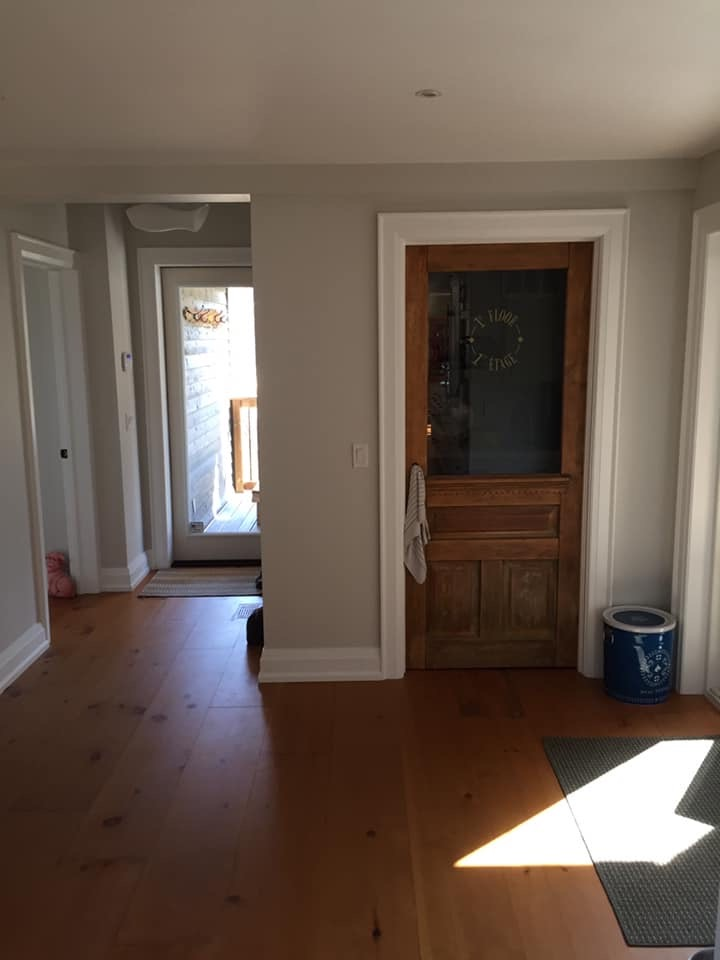
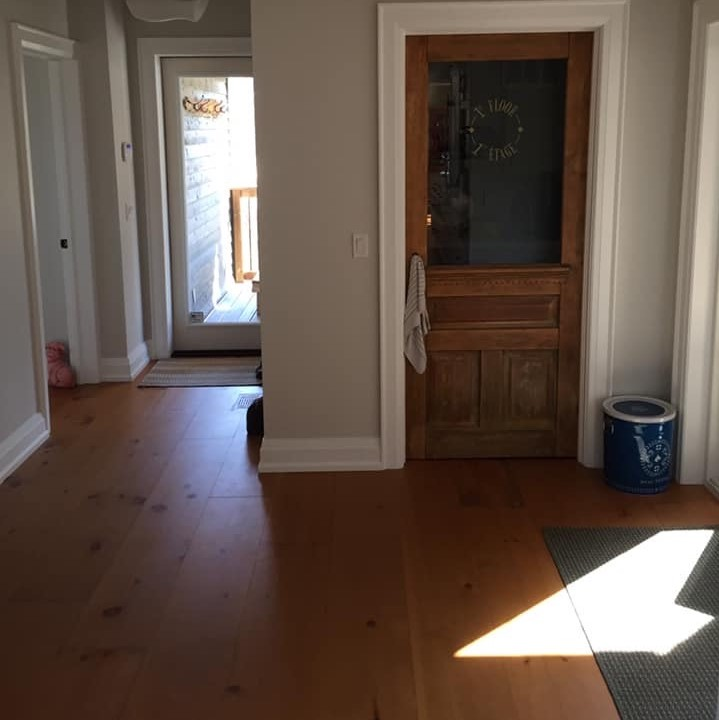
Resized and compressed all images

diff --git a/src/project-1.js b/src/project-1.js
@@ -123,68 +123,68 @@ export default class ProjectOne extends Component {
           <div class="project-gallery">
             <img
               class="project-gallery-image type1"
-              src="/projects/Project-1/IMG-0356.jpg"
+              src="/projects/Project-1/Project-1-1-MD.png"
               alt="not found"
             ></img>
 
             <img
               class="project-gallery-image type2"
-              src="/projects/Project-1/IMG-0357.jpg"
+              src="/projects/Project-1/Project-1-2-MD.png"
               alt="not found"
             ></img>
             <img
               class="project-gallery-image type1"
-              src="/projects/Project-1/IMG-0358.jpg"
+              src="/projects/Project-1/Project-1-3-MD.png"
               alt="not found"
             ></img>
             <img
               class="project-gallery-image type2"
-              src="/projects/Project-1/IMG-0359.jpg"
+              src="/projects/Project-1/Project-1-4-MD.png"
               alt="not found"
             ></img>
             <img
               class="project-gallery-image type1"
-              src="/projects/Project-1/IMG-0360.jpg"
+              src="/projects/Project-1/Project-1-5-MD.png"
               alt="not found"
             ></img>
             <img
               class="project-gallery-image type2"
-              src="/projects/Project-1/IMG-0361.jpg"
+              src="/projects/Project-1/Project-1-6-MD.png"
               alt="not found"
             ></img>
             <img
               class="project-gallery-image type1"
-              src="/projects/Project-1/IMG-0362.jpg"
+              src="/projects/Project-1/Project-1-7-MD.png"
               alt="not found"
             ></img>
             <img
               class="project-gallery-image type2"
-              src="/projects/Project-1/IMG-0363.jpg"
+              src="/projects/Project-1/Project-1-8-MD.png"
               alt="not found"
             ></img>
             <img
               class="project-gallery-image type1"
-              src="/projects/Project-1/IMG-0364.jpg"
+              src="/projects/Project-1/Project-1-9-MD.png"
               alt="not found"
             ></img>
             <img
               class="project-gallery-image type2"
-              src="/projects/Project-1/IMG-0365.jpg"
+              src="/projects/Project-1/Project-1-10-MD.png"
               alt="not found"
             ></img>
             <img
               class="project-gallery-image type2"
-              src="/projects/Project-1/IMG-0366.jpg"
+              src="/projects/Project-1/Project-1-11-MD.png"
               alt="not found"
             ></img>
             <img
               class="project-gallery-image type2"
-              src="/projects/Project-1/IMG-0367.jpg"
+              src="/projects/Project-1/Project-1-12-MD.png"
               alt="not found"
             ></img>
             <img
               class="project-gallery-image type2"
-              src="/projects/Project-1/IMG-0368.jpg"
+              src="/projects/Project-1/Project-1-13-MD.png"
               alt="not found"
             ></img>
           </div>

diff --git a/src/projects.js b/src/projects.js
@@ -11,7 +11,7 @@ class Projects extends Component {
       $("div.p1").on("mouseover", function() {
         $("div.p1").css(
           "background-image",
-          "url(/projects/Project-1/Project-1-Dark.png)"
+          "url(/projects/Project-1/Project-1-Dark-LG.png)"
         );
         window.$("h1.project-image-contents-1").css("opacity", "1");
         window.$("input.project-image-contents-1").css("opacity", "1");
@@ -19,7 +19,7 @@ class Projects extends Component {
       $("div.p1").on("mouseout", function() {
         $("div.p1").css(
           "background-image",
-          "url(/projects/Project-1/IMG-0361.jpg)"
+          "url(/projects/Project-1/Project-1-1-LG.png)"
         );
         $("h1.project-image-contents-1").css("opacity", "0");
         $("input.project-image-contents-1").css("opacity", "0");
@@ -27,7 +27,7 @@ class Projects extends Component {
       $("div.p2").on("mouseover", function() {
         $("div.p2").css(
           "background-image",
-          "url(/projects/Project-2/Project-2-Dark.png)"
+          "url(/projects/Project-2/Project-2-Dark-LG.png)"
         );
         $("h1.project-image-contents-2").css("opacity", "1");
         $("input.project-image-contents-2").css("opacity", "1");
@@ -35,7 +35,7 @@ class Projects extends Component {
       $("div.p2").on("mouseout", function() {
         $("div.p2").css(
           "background-image",
-          "url(/projects/Project-2/IMG-0257.jpg)"
+          "url(/projects/Project-2/Project-2-1-LG.png)"
         );
         $("h1.project-image-contents-2").css("opacity", "0");
         $("input.project-image-contents-2").css("opacity", "0");
@@ -43,7 +43,7 @@ class Projects extends Component {
       $("div.p3").on("mouseover", function() {
         $("div.p3").css(
           "background-image",
-          "url(/projects/Project-3-Dark.png)"
+          "url(/projects/Project-2/Project-3-Dark-LG.png)"
         );
         $("h1.project-image-contents-3").css("opacity", "1");
         $("input.project-image-contents-3").css("opacity", "1");
@@ -51,7 +51,7 @@ class Projects extends Component {
       $("div.p3").on("mouseout", function() {
         $("div.p3").css(
           "background-image",
-          "url(/projects/Project-2/Project-3-1.JPG)"
+          "url(/projects/Project-2/Project-3-1-LG.png)"
         );
         $("h1.project-image-contents-3").css("opacity", "0");
         $("input.project-image-contents-3").css("opacity", "0");

diff --git a/src/projects.css b/src/projects.css
@@ -48,42 +48,42 @@
 }
 
 .project-image-main.p1 {
-  background-image: url("/projects/Project-1/IMG-0361.jpg");
+  background-image: url("/projects/Project-1/Project-1-1-LG.png");
   background-size: cover;
   width: 500px;
-  height: 300px;
+  height: 375px;
   margin: 10px;
   transition-property: all;
   transition-duration: 300ms;
 }
 
 .project-image-main.p2 {
-  background-image: url("/projects/Project-2-1.jpg");
+  background-image: url("/projects/Project-2/Project-2-1-LG.png");
   background-size: cover;
   width: 500px;
-  height: 300px;
+  height: 375px;
   margin: 10px;
   transition-property: all;
   transition-duration: 300ms;
 }
 .project-image-main.p3 {
-  background-image: url("/projects/Project-2/Project-3-1.JPG");
+  background-image: url("/projects/Project-2/Project-3-1-LG.png");
   background-size: cover;
   width: 500px;
-  height: 300px;
+  height: 375px;
   margin: 10px;
   transition-property: all;
   transition-duration: 300ms;
 }
-.project-image-main.p4 {
+/* .project-image-main.p4 {
   background-image: url("/project-4.jpg");
   background-size: cover;
   width: 500px;
-  height: 300px;
+  height: 375px;
   margin: 10px;
   transition-property: all;
   transition-duration: 300ms;
-}
+} */
 .project-image-main:hover {
   transform: scale(1.05, 1.05);
 }
@@ -130,6 +130,35 @@
 
   .project-flex > div > link > input {
     font-size: 150%;
+  }
+
+  .project-image-main.p1 {
+    background-image: url("/projects/Project-1/Project-1-1-LG.png");
+    background-size: cover;
+    width: 280px;
+    height: 280px;
+    margin: 10px;
+    transition-property: all;
+    transition-duration: 300ms;
+  }
+
+  .project-image-main.p2 {
+    background-image: url("/projects/Project-2/Project-2-1-LG.png");
+    background-size: cover;
+    width: 280px;
+    height: 280px;
+    margin: 10px;
+    transition-property: all;
+    transition-duration: 300ms;
+  }
+  .project-image-main.p3 {
+    background-image: url("/projects/Project-2/Project-3-1-LG.png");
+    background-size: cover;
+    width: 280px;
+    height: 280px;
+    margin: 10px;
+    transition-property: all;
+    transition-duration: 300ms;
   }
 
   .project-image-contents-1 {

diff --git a/src/project-3.js b/src/project-3.js
@@ -123,37 +123,37 @@ export default class ProjectThree extends Component {
           <div class="project-gallery">
             <img
               class="project-gallery-image type1"
-              src="/projects/Project-2/Project-3-1.JPG"
+              src="/projects/Project-2/Project-3-1-MD.png"
               alt="not found"
             ></img>
             <img
               class="project-gallery-image type2"
-              src="/projects/Project-2/Project-3-2.jpg"
+              src="/projects/Project-2/Project-3-2-MD.png"
               alt="not found"
             ></img>
             <img
               class="project-gallery-image type1"
-              src="/projects/Project-2/Project-3-3.JPG"
+              src="/projects/Project-2/Project-3-3-MD.png"
               alt="not found"
             ></img>
             <img
               class="project-gallery-image type2"
-              src="/projects/Project-2/Project-3-4.JPG"
+              src="/projects/Project-2/Project-3-4-MD.png"
               alt="not found"
             ></img>
             <img
               class="project-gallery-image type1"
-              src="/projects/Project-2/Project-3-5.JPG"
+              src="/projects/Project-2/Project-3-5-MD.png"
               alt="not found"
             ></img>
             <img
               class="project-gallery-image type2"
-              src="/projects/Project-2/Project-3-6.JPG"
+              src="/projects/Project-2/Project-3-6-MD.png"
               alt="not found"
             ></img>
             <img
               class="project-gallery-image type1"
-              src="/projects/Project-2/Project-3-7.JPG"
+              src="/projects/Project-2/Project-3-7-MD.png"
               alt="not found"
             ></img>
           </div>

diff --git a/src/project-2.js b/src/project-2.js
@@ -124,37 +124,37 @@ export default class ProjectTwo extends Component {
           <div class="project-gallery">
             <img
               class="project-gallery-image type1"
-              src="/projects/Project-2/IMG-0126.jpg"
+              src="/projects/Project-2/Project-2-1-MD.png"
               alt="not found"
             ></img>
             <img
               class="project-gallery-image type2"
-              src="/projects/Project-2/IMG-0233.jpg"
+              src="/projects/Project-2/Project-2-2-MD.png"
               alt="not found"
             ></img>
             <img
               class="project-gallery-image type1"
-              src="/projects/Project-2/IMG-0239.jpg"
+              src="/projects/Project-2/Project-2-3-MD.png"
               alt="not found"
             ></img>
             <img
               class="project-gallery-image type2"
-              src="/projects/Project-2/IMG-0244.jpg"
+              src="/projects/Project-2/Project-2-4-MD.png"
               alt="not found"
             ></img>
             <img
               class="project-gallery-image type1"
-              src="/projects/Project-2/IMG-0247.jpg"
+              src="/projects/Project-2/Project-2-5-MD.png"
               alt="not found"
             ></img>
             <img
               class="project-gallery-image type2"
-              src="/projects/Project-2/IMG-0254.jpg"
+              src="/projects/Project-2/Project-2-6-MD.png"
               alt="not found"
             ></img>
             <img
               class="project-gallery-image type1"
-              src="/projects/Project-2/IMG-0257.jpg"
+              src="/projects/Project-2/Project-2-7-MD.png"
               alt="not found"
             ></img>
           </div>

diff --git a/src/project-detail.css b/src/project-detail.css
@@ -11,19 +11,19 @@
 }
 
 .project-banner.project-1 {
-  background-image: url("/projects/Project-1/project1banner.png");
+  background-image: url("/projects/Project-1/Project-1-Banner-LG.png");
   background-size: cover;
   height: 300px;
 }
 
 .project-banner.project-2 {
-  background-image: url("/projects/Project-2/project2banner.png");
+  background-image: url("/projects/Project-2/Project-2-Banner-LG.png");
   background-size: cover;
   height: 300px;
 }
 
 .project-banner.project-3 {
-  background-image: url("/projects/Project-1/project1banner.png");
+  background-image: url("/projects/Project-1/Project-1-Banner-LG.png");
   background-size: cover;
   height: 300px;
 }
@@ -113,19 +113,19 @@
     margin-top: 50px;
   }
   .project-banner.project-1 {
-    background-image: url("/projects/Project-1/Project-1-Dark.png");
+    background-image: url("/projects/Project-1/Project-1-Dark-LG.png");
     background-size: cover;
     height: 300px;
   }
 
   .project-banner.project-2 {
-    background-image: url("/projects/Project-2/Project-2-Dark.png");
+    background-image: url("/projects/Project-2/Project-2-Dark-LG.png");
     background-size: cover;
     height: 300px;
   }
 
   .project-banner.project-3 {
-    background-image: url("/projects/Project-2/Project-2-Dark.png");
+    background-image: url("/projects/Project-2/Project-2-Dark-LG.png");
     background-size: cover;
     height: 300px;
   }

diff --git a/src/index.css b/src/index.css
@@ -27,7 +27,7 @@ code {
 
 .home {
   margin-top: 55px;
-  background-image: url("/home/wood-background-4.png");
+  background-image: url("/home/Wood-2000.png");
   background-size: 100%;
   height: 600px;
   width: 100%;

diff --git a/src/contact.css b/src/contact.css
@@ -1,5 +1,5 @@
 .contact-banner {
-  background-image: url("/projects/Project-1/project1banner.png");
+  background-image: url("/projects/Project-1/Project-1-Banner-LG.png");
   background-size: 100%;
   height: 300px;
 
